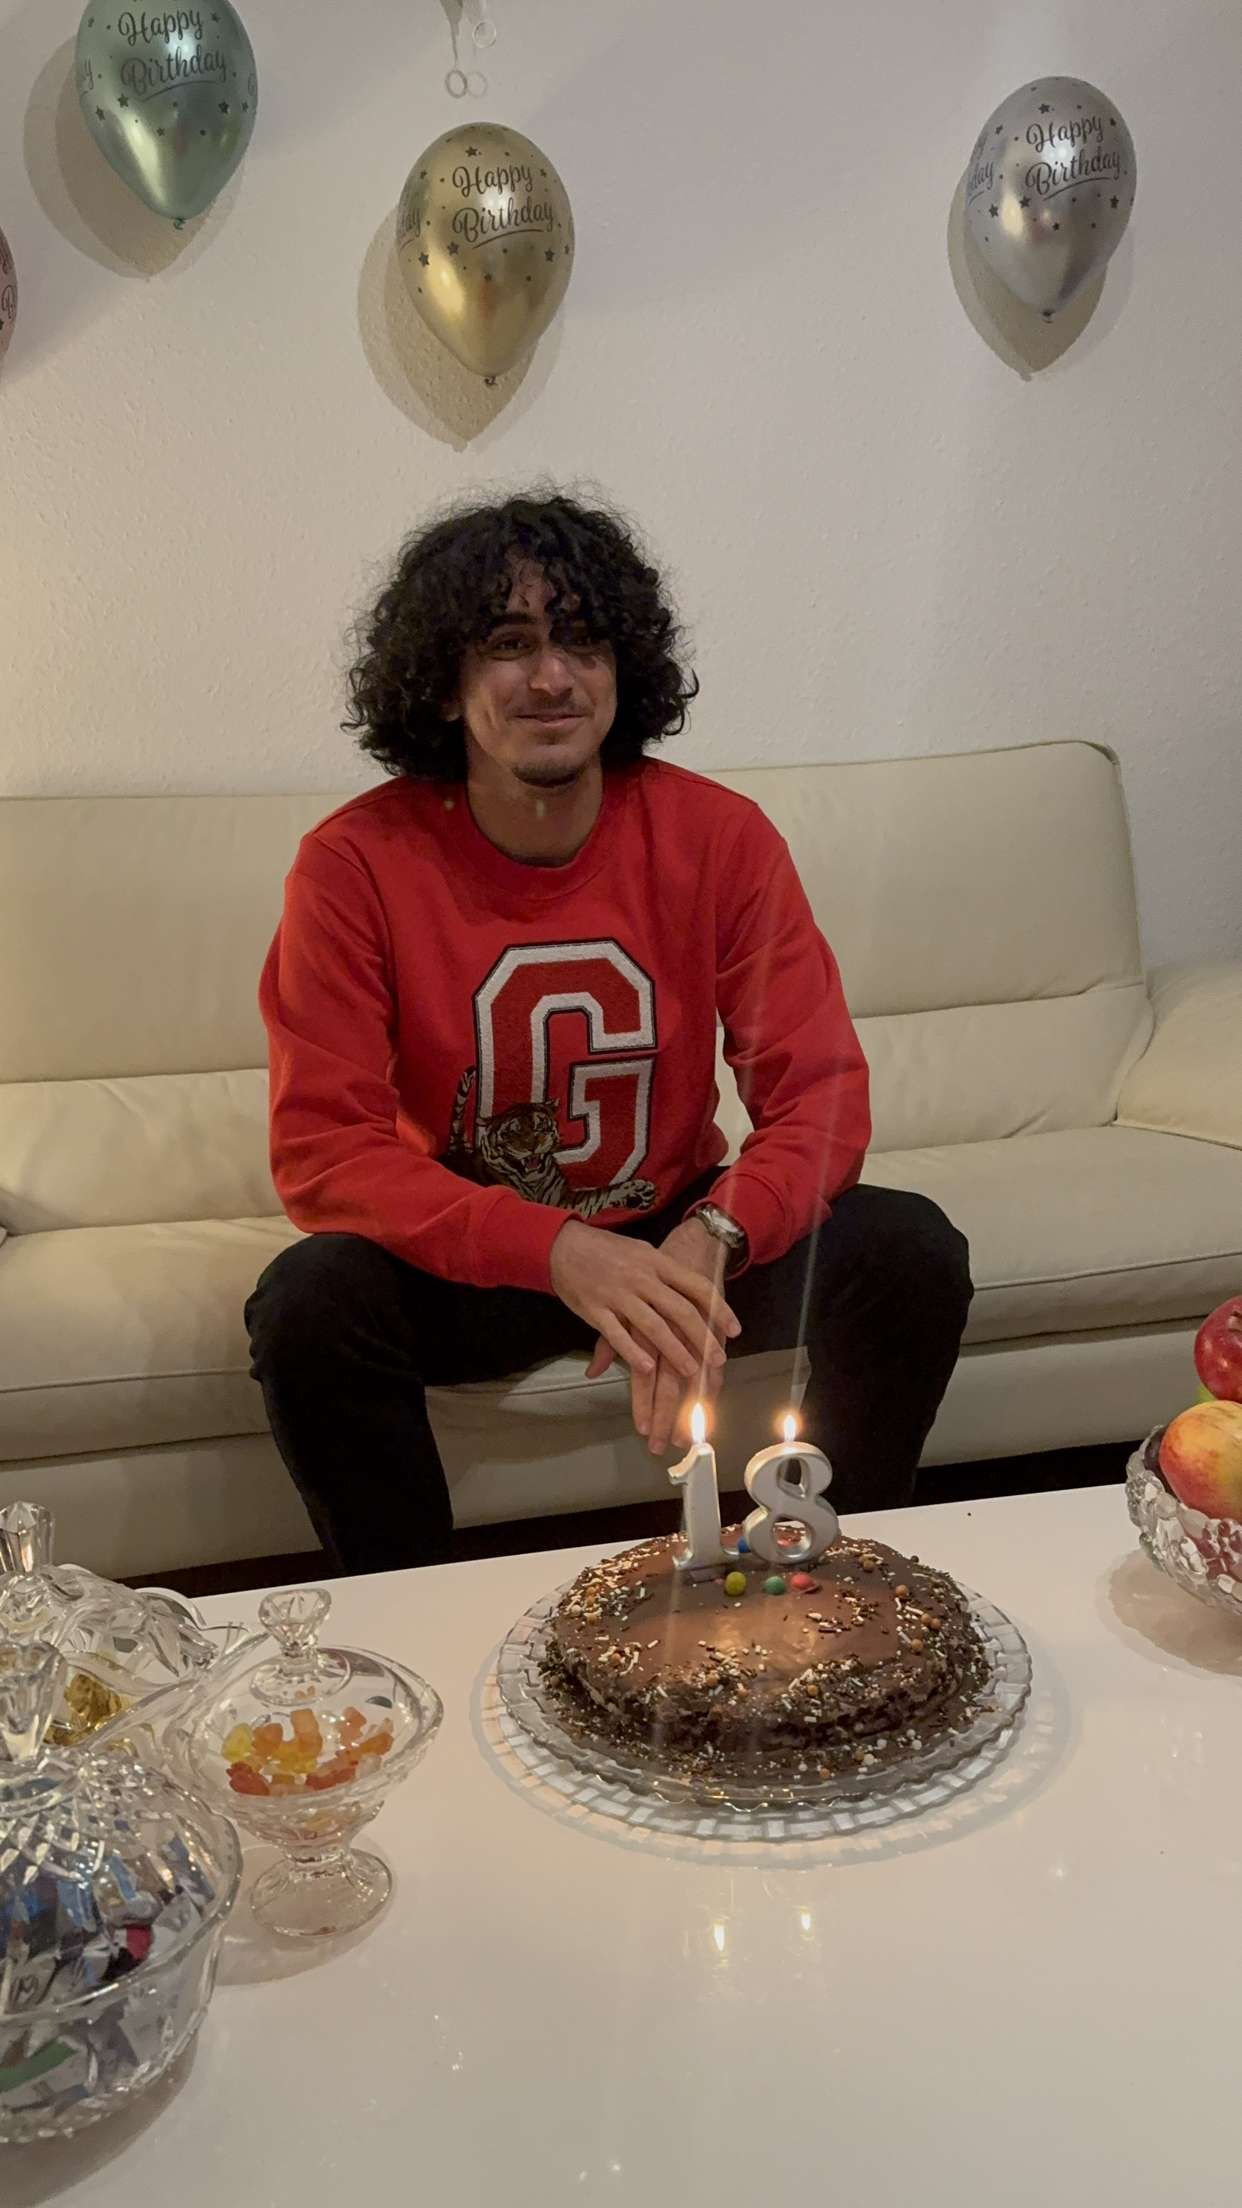
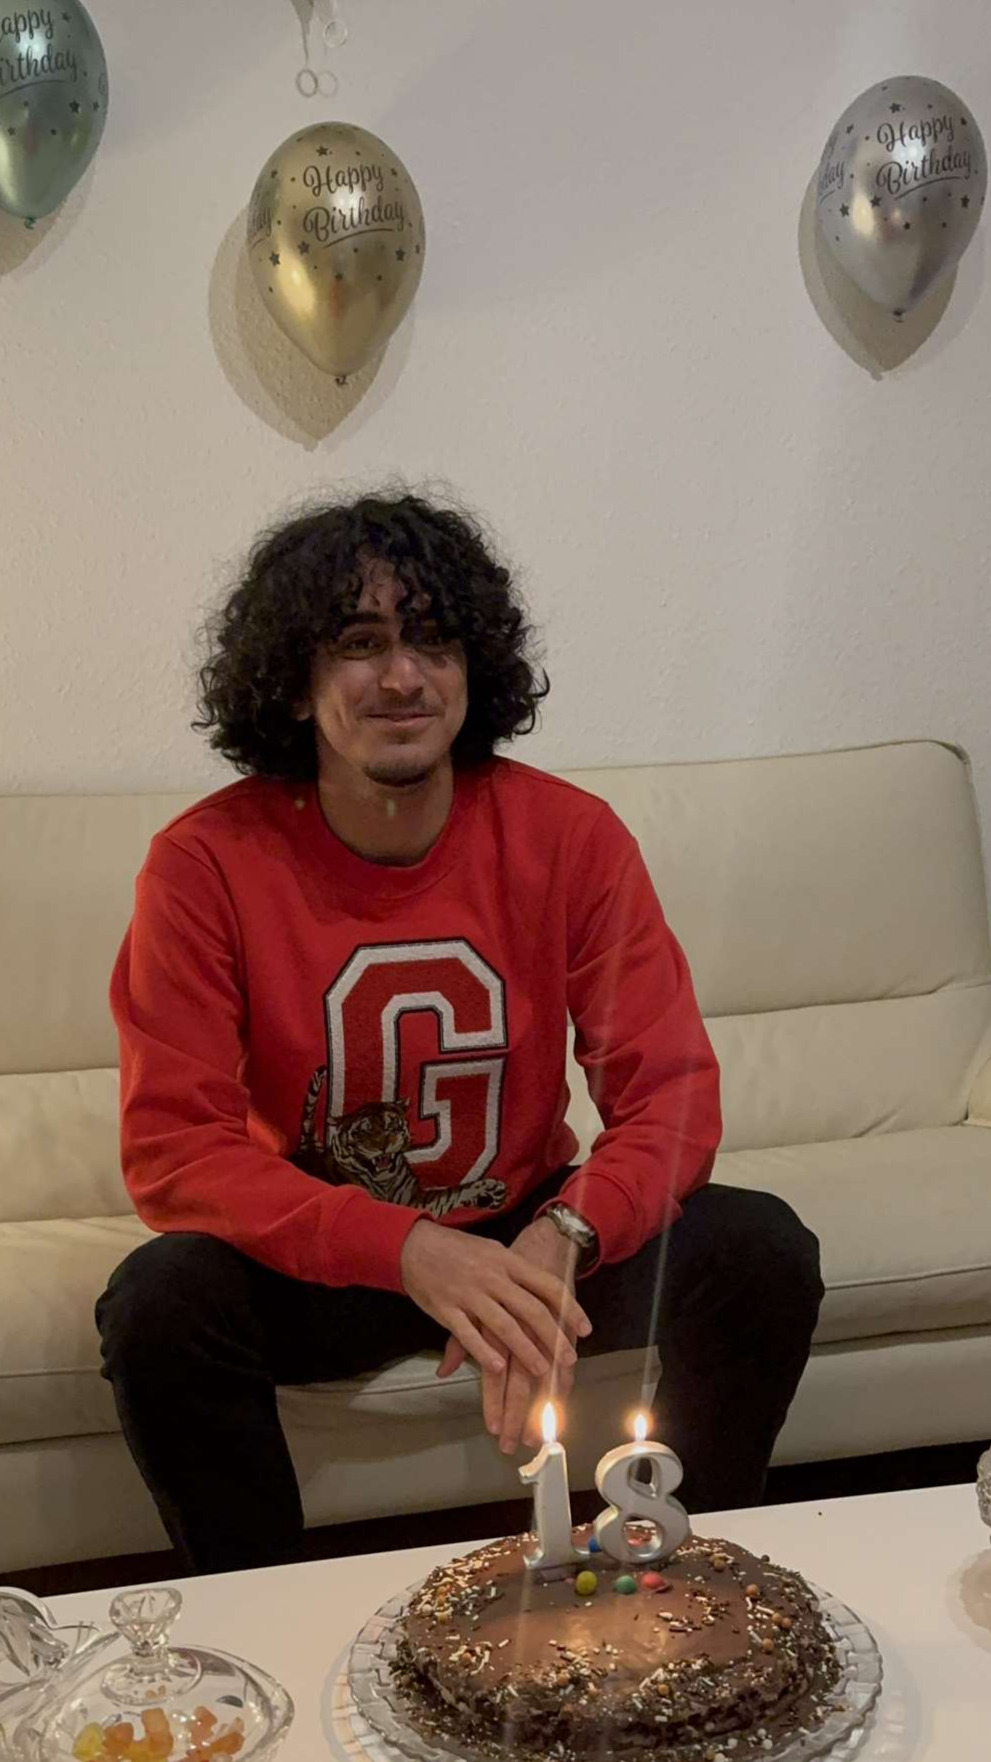
feat: Made Main Page responsive

diff --git a/src/routes/tictactoe/TicTacToe.svelte b/src/routes/tictactoe/TicTacToe.svelte
@@ -1,62 +1,69 @@
 <script lang="ts">
     const size = 3;
 
-    const emptyBoard = Array.from({ length: size }, () => Array.from({length: size}, () => " "))
-    let board = $state(emptyBoard);
-    let curPlayer = $state("X");
-    let status = $derived(`Current Player: ${curPlayer}`);
+    type Field = 'X' | 'O' | ' '
+    type Winner = Field | 'Tie'
+    type Player = Exclude<Field, ' '>
+
+
+    const emptyBoard: Field[][] = Array.from({ length: size },
+        () => Array.from({length: size}, () => ' ' )
+    )
+    let board = $state<Field[][]>(emptyBoard);
+
+    const nextPlayer: Record<Player, Player> = {
+        X: 'O',
+        O: 'X',
+    };
+    let curPlayer = $state<Exclude<Field, ' '>>('X');
+
+    let status = $derived(() => {  
+        const winner = getWinner()
+        switch (winner) {
+            case ' ': return `It's ${curPlayer}'s Turn!`
+            case 'Tie': return "It's a Tie!"
+            default: return `${winner} won!`
+        }
+    })
 
     function chooseField(column: number, row: number) {
         var winner = getWinner()
-        var gameOver = winner !== "";
+        var gameOver = winner !== ' ';
+        
         if (gameOver) resetBoard()
-        if (board[column][row] === " " || gameOver) {
+        if (board[column][row] === ' ' || gameOver) {
             board[column][row] = curPlayer;
             updateBoard()
-            curPlayer = (curPlayer === "X") ? "O" : "X";
+            curPlayer = nextPlayer[curPlayer];
         }
-
-        winner = getWinner()
-        if (winner === "" ) return
-        curPlayer = "X";
-        status = winner === "tie" ? "Tie!" : `${winner} won!` 
+        if (getWinner() !== ' ' ) curPlayer = 'X';
     }
 
-    function resetBoard(): void { board = emptyBoard }
-    function updateBoard(): void { board = [...board] }
-
-    function getWinner(): string {
+    function getWinner(): Winner {
         for (let combination of getCombinations())
             if (allEqual(combination))
                 return combination[0]
         if (board.every((column) => noneEmpty(column)))
-            return "tie"
-        return ""
+            return 'Tie'
+        return ' '
     }
 
-    function noneEmpty(arr: string[]): boolean {
-        return arr.every((value) => value !== " ");
-    }
+    const resetBoard  = (): void => { board = emptyBoard }
+    const updateBoard = (): void => { board = [...board] }
+    const noneEmpty = (arr: Field[]): boolean => arr.every((value) => value !== ' ');
+    const allEqual  = (arr: Field[]): boolean => arr.length > 0 && arr[0] !== ' ' && arr.every((v) => v === arr[0]);
 
-    function allEqual(arr: string[]): boolean {
-        if (arr.length === 0) return true;
-        const first = arr[0];
-        if (first === " ") return false;
-        return arr.every((value) => value === first);
-    }
+    const getCombinations = (): Field[][] => {
+        const rows = board[0].map((_, row) => board.map(col => col[row]));
+        const columns = board.map(col => [...col]);
+        const diags = [ board.map((col, i) => col[i]), board.map((col, i) => col[size - 1 - i])]
 
-    function getCombinations(): string[][] {
-        const rows = Array.from({length: size}, (_,row) => Array.from({length: size}, (_,column) => board[column][row]));
-        const columns = Array.from({length: size}, (_,column) => Array.from({length: size}, (_,row) => board[column][row]));
-        const diagTopLeft = Array.from({length: size}, (_,idx) => board[idx][idx]);
-        const diagTopRight = Array.from({length: size}, (_,idx) => board[size-1-idx][idx]);
-
-        return [...rows, ...columns, diagTopLeft, diagTopRight]
+        return [...rows, ...columns, ...diags]
     }
 </script>
 
 <div class="main">
-    <h1>{status}</h1>
+    <h1>{status()}</h1>
     <div class="board" style="--size: {size * size}rem">
         {#each board as column, columnIdx}
         <div class="column">

diff --git a/src/routes/Hero.svelte b/src/routes/Hero.svelte
@@ -7,59 +7,58 @@
 
 </script>
 
-<div class="main">
-    <img class="heroImage" src={image} alt={name}>
-    <div class="heroText">
-        <div class="intro">
-            <div class="introTextAccent"></div>
-            <h1 class="introText">I'm {name}</h1>
-            <p>{intro}</p>
-        </div>
-        <div class="links">
-            <a href={links.github}><Github /></a>
-            <a href={links.linkedIn}><LinkedIn /></a>
-            <a href={links.instagram}><Instagram /></a>
-        </div>
+<div class="hero">
+    <div class="introDiv">
+        <div class="introAccent"></div>
+        <h1 class="intro">I'm {name}</h1>
+        <p class="introText">{intro}</p>
     </div>
+    <div class="links">
+        <a href={links.github}><Github /></a>
+        <a href={links.linkedIn}><LinkedIn /></a>
+        <a href={links.instagram}><Instagram /></a>
+    </div>
+    <img class="image" src={image} alt={name}>
 </div>
 
 <style>
-    .main {
+    .hero {
         display: flex;
-        margin: 0% 5% var(--border-padding) var(--border-padding);
+        flex-direction: column;
+        align-items: right;
     }
     
-    .heroImage {
-        width: 35%;
+    .image {
+        max-width: 100%;
+        height: auto;
+        display: block;
         border-radius: 20px;
-        margin-left: 2%;
-        margin-right: 7%;
     }
-    
-    .introText {
+
+    .links {
+        display: flex;
+        margin: 5%;
+    }
+
+    .introDiv {
+        display: flex;
+        flex-direction: column;
+        margin: 5%;
+    }
+
+    .intro {
         margin-top: 0px;
         padding-top: 0px;
         font-size: 3rem;
-        font-weight: 500;
+        font-weight: bold;
     }
 
-    .introTextAccent {
+    .introAccent {
         background-color: var(--secondary-color);
         width: 3rem;
         height: 0.5rem;
         margin-bottom: -0.5rem;
         padding-bottom: 0px;
-    }
-
-    .heroText {
-        display: flex;
-        justify-content: space-between;
-        flex-direction: column;
-    }
-
-    .links {
-        display: flex;
-        flex-direction: row;
     }
 
 </style>

diff --git a/src/routes/+page.svelte b/src/routes/+page.svelte
@@ -32,6 +32,8 @@
     <Hero
         {...heroInfos.trivaris}
     />
+</div>
+<div class="hero">
     <Hero
         {...heroInfos.alireza}
     />
@@ -39,9 +41,9 @@
 
 <style>
     .hero {
-        display: flex;
-        align-content: center;
-        flex-direction: column;
         margin-top: 5%;
+        margin-bottom: 50%;
+        margin-right: var(--border-padding);
+        margin-left: var(--border-padding);
     }
 </style>

diff --git a/src/routes/+layout.svelte b/src/routes/+layout.svelte
@@ -22,9 +22,9 @@
 <style>
 	:root {
 		--primary-color: hsla(88,100%,30%,1);
-		--secondary-color: hsla(88,100%,80%,1);
+		--secondary-color: rgb(136, 255, 0);
 		--background-color: hsla(88,100%,96%,1);
-		--border-padding: 20%;
+		--border-padding: 0.5rem;
 		--font: "Noto Sans", sans-serif;
 		background-color: var(--background-color);
 		font-family: var(--font);
